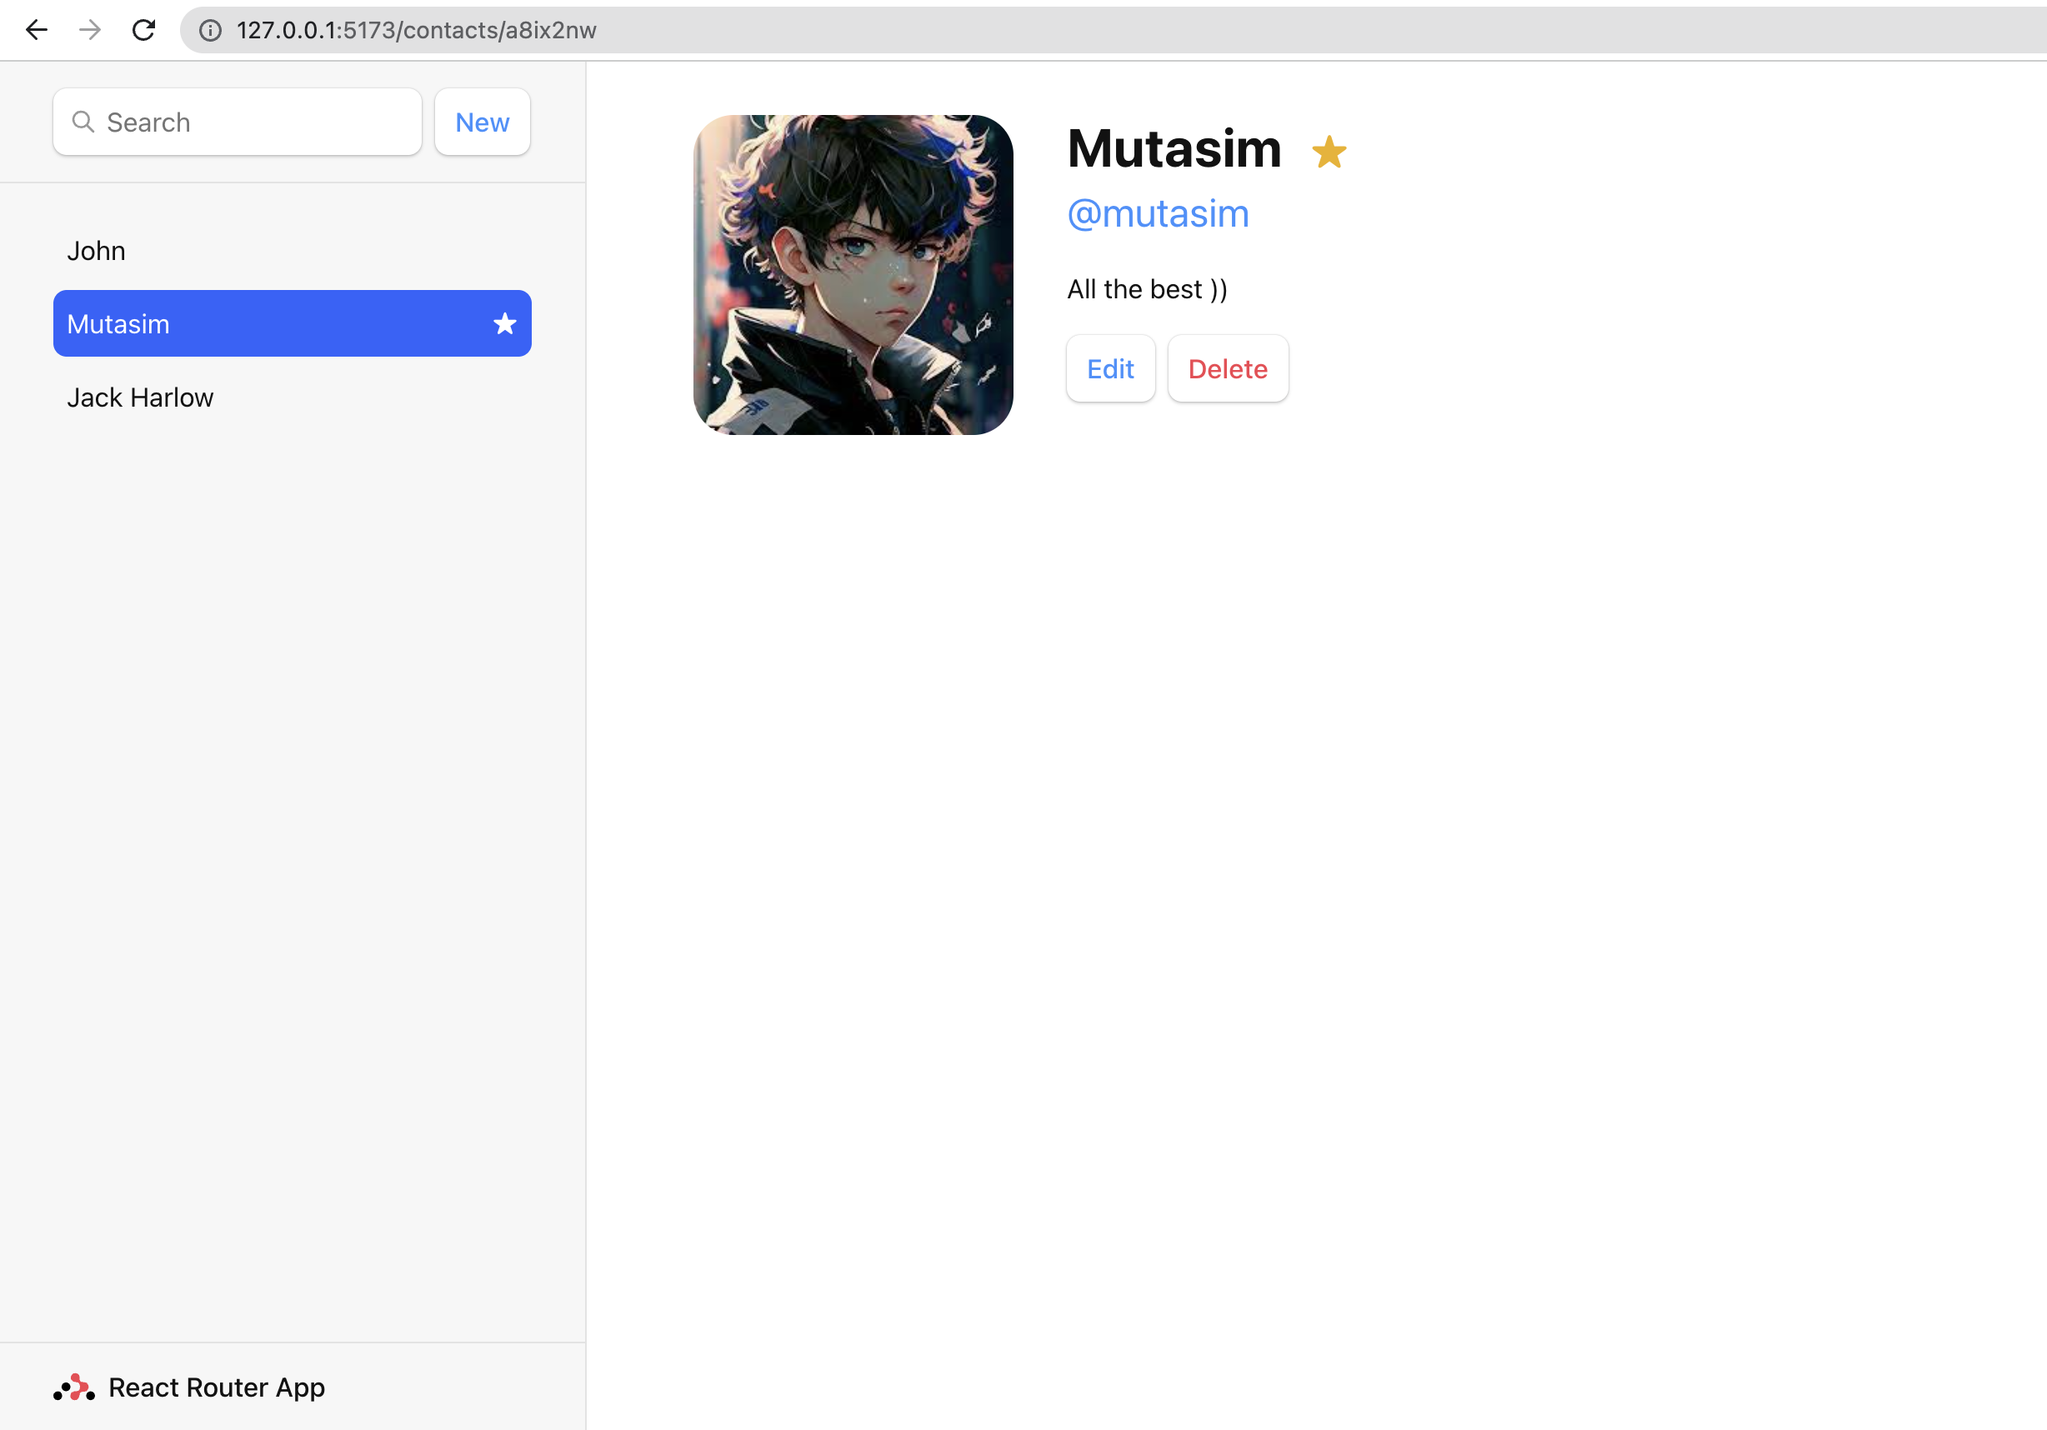
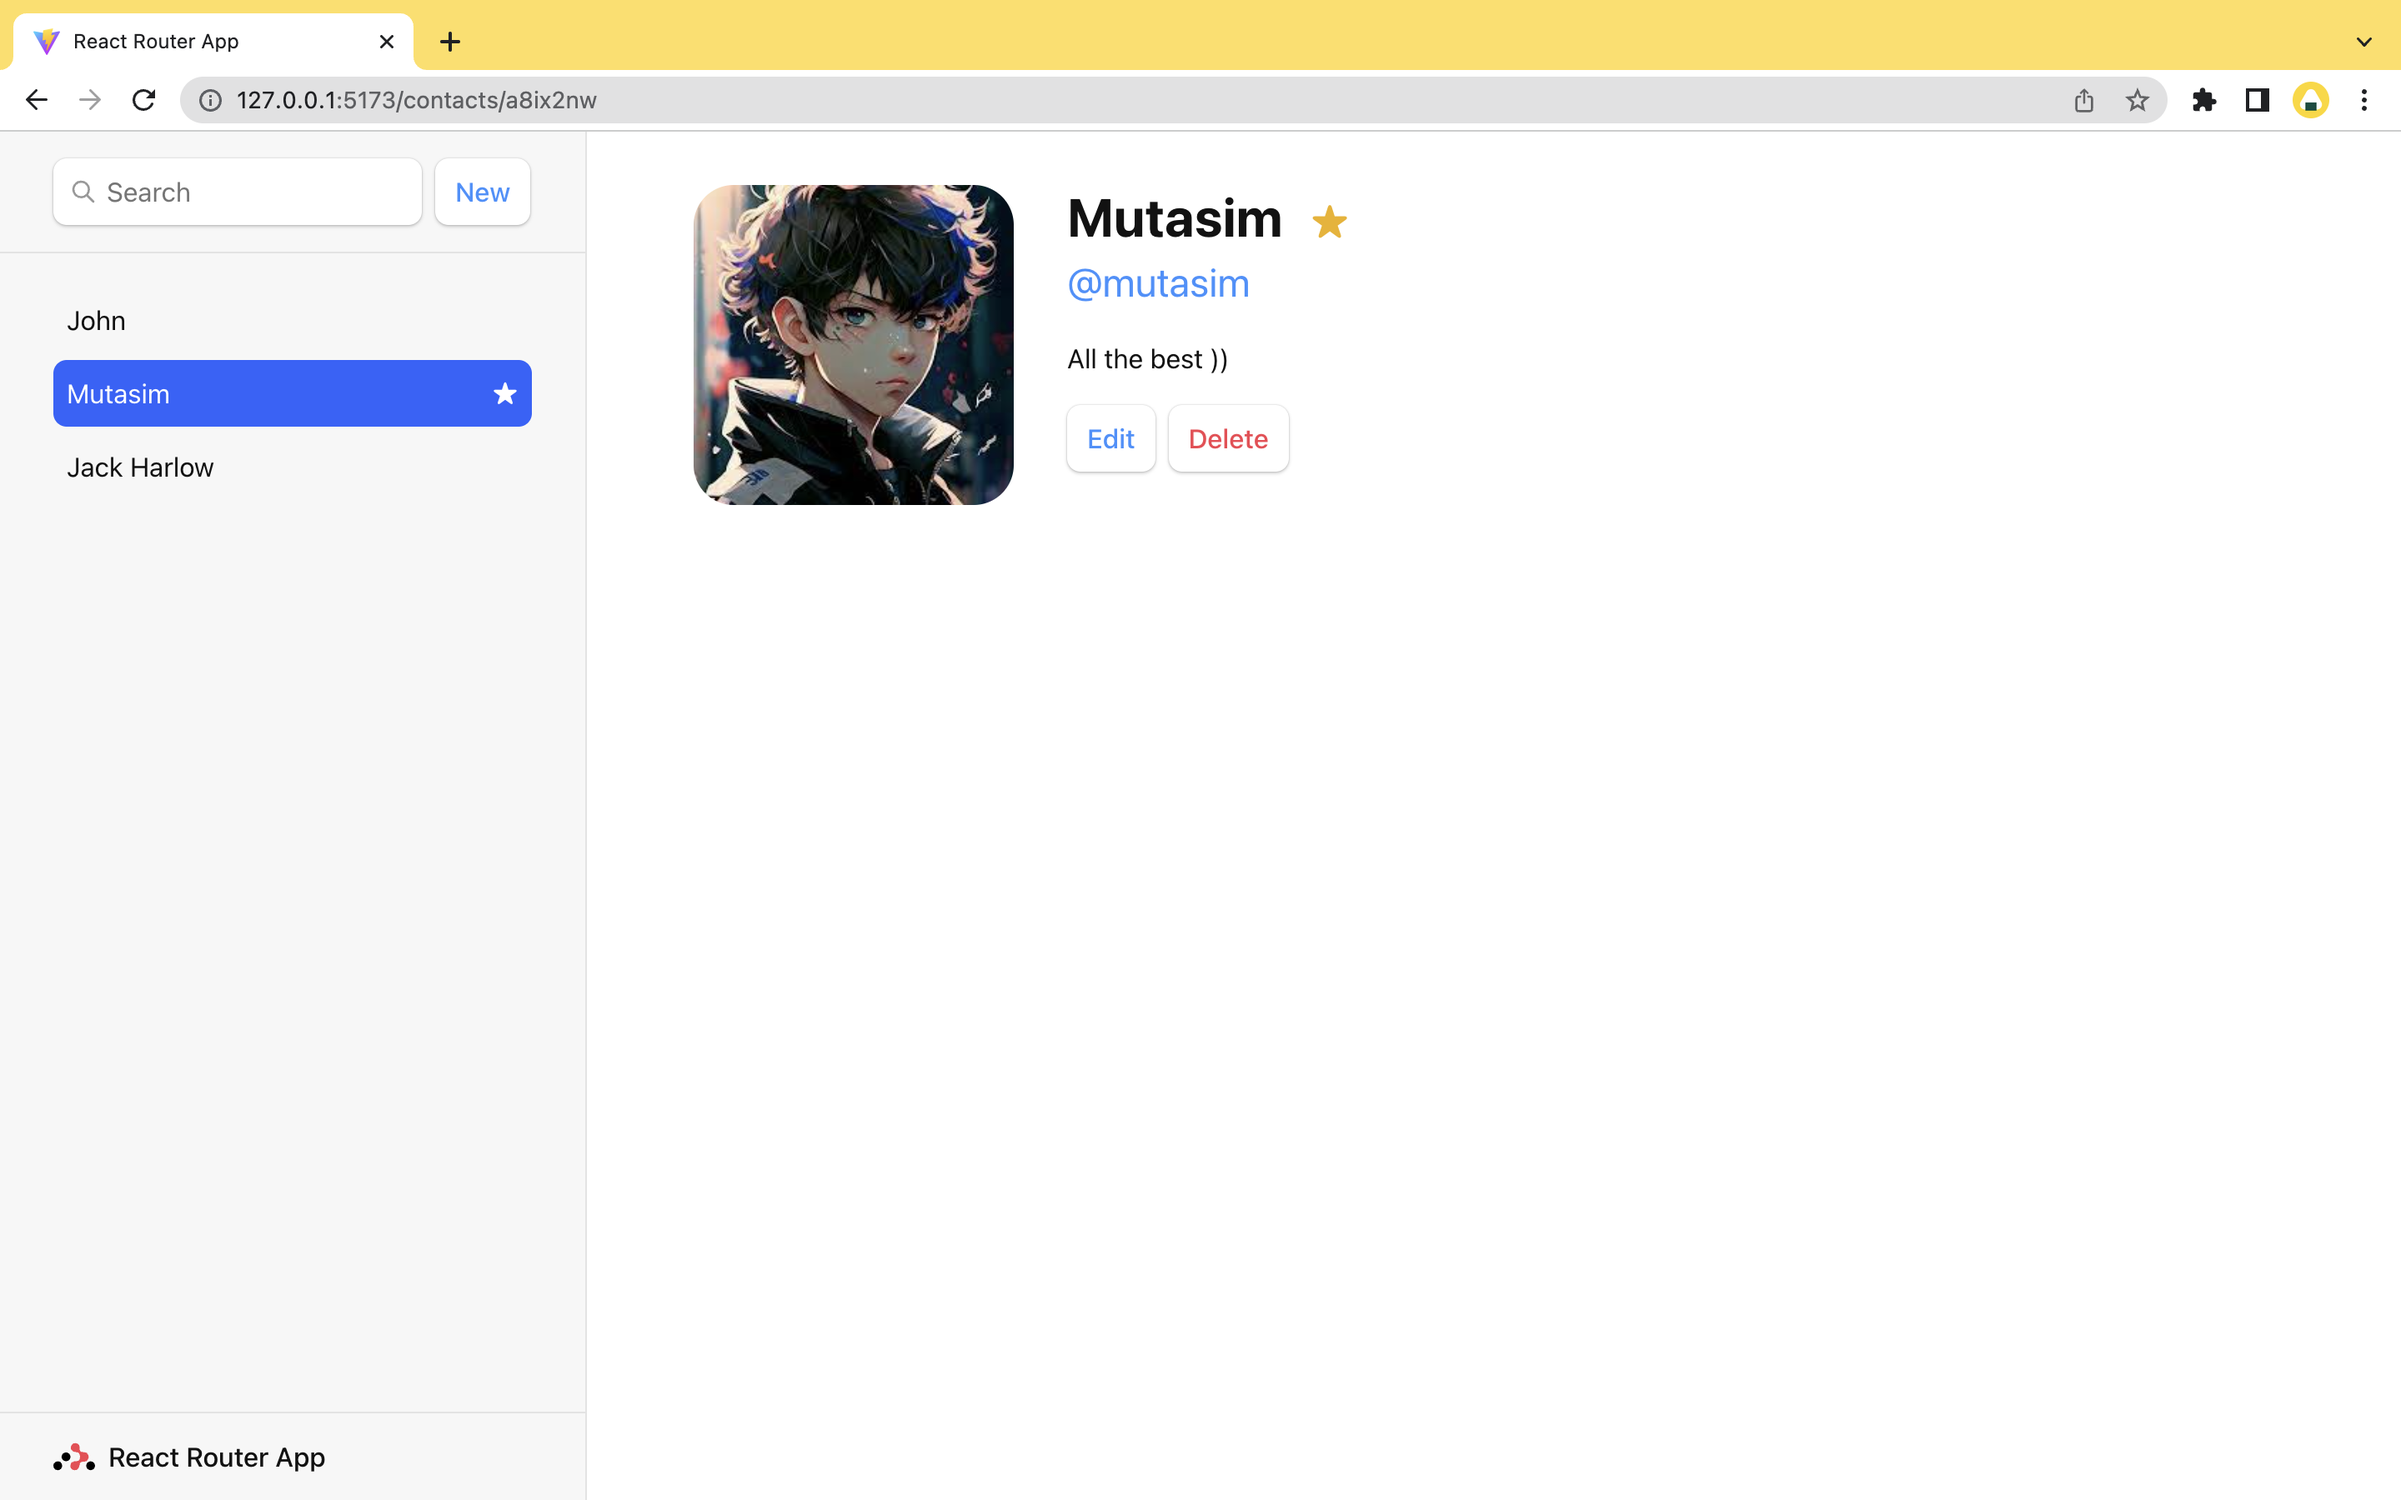
Rounter Project ⚪

diff --git a/react-router-app/README.md b/react-router-app/README.md
@@ -1,3 +1,3 @@
 # Demo
 
-
+<img src="Screenshot.png">
